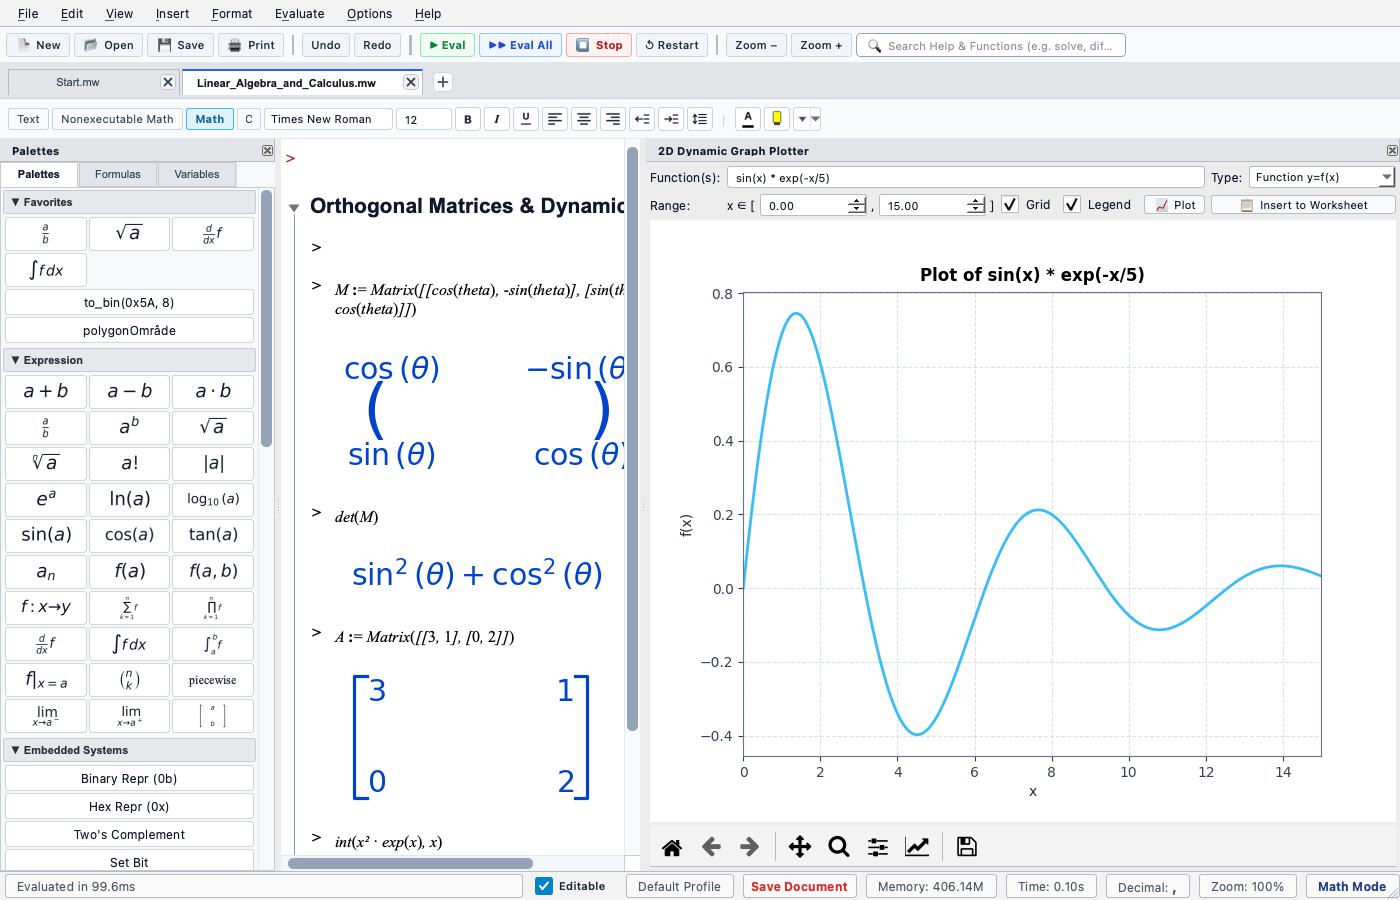
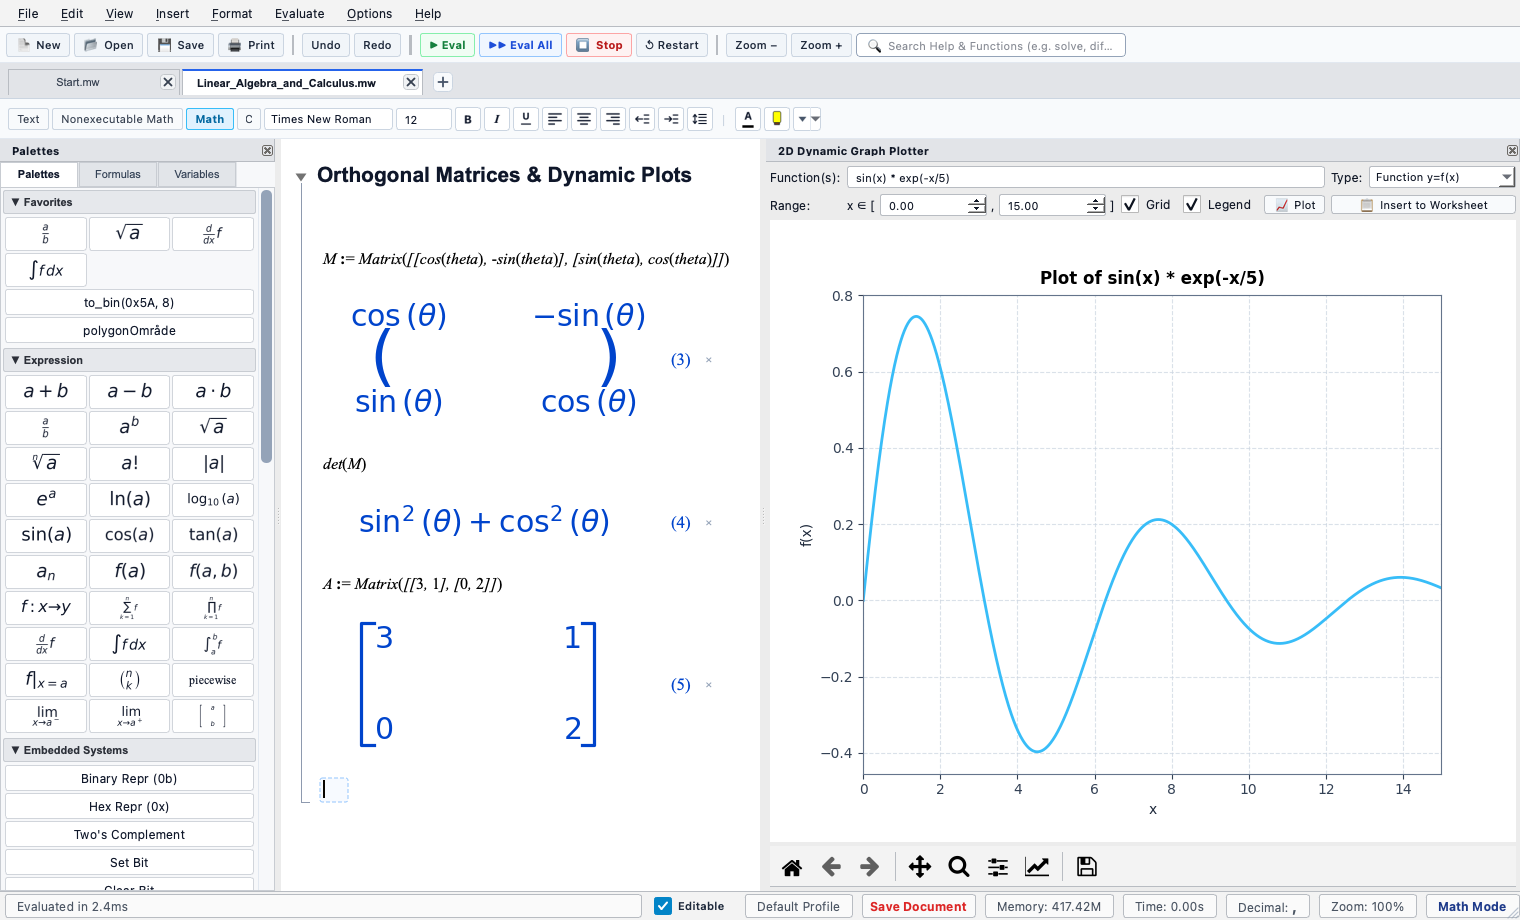
fix(ui): remove prompt and singular cell brackets, nest equations under subsections, and update showcase screenshots

diff --git a/web/js/worksheet.js b/web/js/worksheet.js
@@ -227,9 +227,9 @@ export class WorksheetView {
       const hasImages = cell.embeddedImages && Object.keys(cell.embeddedImages).length > 0;
       const isText = cell.mode === "text" || isTable || hasImages;
       cellDiv.innerHTML = `
-        <div class="cell-bracket-bar" style="${isText ? 'visibility:hidden;' : ''}"></div>
+        <div class="cell-bracket-bar" style="display:none;"></div>
         <div class="cell-input-row">
-          <span class="cell-prompt" style="${isText ? 'display:none;' : ''}">[&gt; </span>
+          <span class="cell-prompt" style="display:none;"></span>
           <div class="cell-input-edit mode-${cell.mode === '1d_math' ? '1d' : (isText ? 'text' : '2d')}"
                contenteditable="${this.isEditable}"
                spellcheck="false"></div>
@@ -402,7 +402,7 @@ export class WorksheetView {
       editEl.className = `cell-input-edit mode-${mode === '1d_math' ? '1d' : (isText ? 'text' : '2d')}`;
     }
     if (bracketBar) bracketBar.style.display = "none";
-    if (promptEl) promptEl.style.display = isText ? "none" : "";
+    if (promptEl) promptEl.style.display = "none";
 
     const outputContainer = cell.domElement?.querySelector(".cell-output-container");
     if (isText && outputContainer) {

diff --git a/web/css/worksheet.css b/web/css/worksheet.css
@@ -223,19 +223,9 @@ body.theme-dark .start-dev-btn:hover {
   min-height: 22px;
 }
 
+/* Cell Prompt `>` - Disabled: clean document presentation without command-line prompt */
 .cell-prompt {
-  font-family: "Times New Roman", Times, serif;
-  font-size: 14px;
-  font-style: italic;
-  font-weight: bold;
-  color: #cc0000;
-  user-select: none;
-  flex-shrink: 0;
-  line-height: 1.2;
-}
-
-body.theme-dark .cell-prompt {
-  color: #ef4444;
+  display: none !important;
 }
 
 .cell-input-edit {

diff --git a/web/css/desktop.css b/web/css/desktop.css
@@ -1094,10 +1094,10 @@ body.theme-dark .status-segment.mode-badge {
     box-shadow: none !important;
   }
   .cell-bracket-bar {
-    border-color: #cbd5e1 !important;
+    display: none !important;
   }
   .cell-prompt {
-    color: #7f1d1d !important;
+    display: none !important;
   }
   .cell-output-math {
     color: #0000aa !important;

diff --git a/scripts/generate_showcase_screenshots.py b/scripts/generate_showcase_screenshots.py
@@ -51,6 +51,11 @@ def generate_screenshot_1_light():
     win.tab_widget.setTabText(1, "Calculus_Worksheet.mw")
     win.setWindowTitle("Calculus_Worksheet.mw - [Server 3] - OpenMath")
 
+    while ws.cells:
+        c = ws.cells.pop(0)
+        ws.cells_layout.removeWidget(c)
+        c.deleteLater()
+
     ws.insert_section_cell("1. Advanced Symbolic Calculus & Analysis", level=0)
 
     c1 = ws.add_cell("f(x) := sin(x) * exp(-x/3)")
@@ -65,16 +70,18 @@ def generate_screenshot_1_light():
     c4 = ws.add_cell("solve(x^3 - 6*x^2 + 11*x - 6 = 0, x)")
     c4.execute()
 
+    if ws.cells:
+        ws.active_cell = ws.cells[0]
+
+    win.show()
+    app.processEvents()
+
     if hasattr(ws, 'scroll_area'):
         ws.scroll_area.verticalScrollBar().setValue(0)
         ws.scroll_area.horizontalScrollBar().setValue(0)
 
     app.processEvents()
     time.sleep(0.3)
-    app.processEvents()
-
-    win.show()
-    app.processEvents()
 
     out_path = os.path.join(OUT_DIR, "openmath_desktop_light.png")
     win.grab().save(out_path)
@@ -97,6 +104,11 @@ def generate_screenshot_2_dark():
     ws.set_worksheet_mode(True)
     win.tab_widget.setTabText(1, "Data_and_Constants.mw")
     win.setWindowTitle("Data_and_Constants.mw - [Server 3] - OpenMath")
+
+    while ws.cells:
+        c = ws.cells.pop(0)
+        ws.cells_layout.removeWidget(c)
+        c.deleteLater()
 
     ws.insert_section_cell("Physical Constants & Matrix Analysis", level=0)
 
@@ -141,16 +153,18 @@ def generate_screenshot_2_dark():
     c3 = ws.add_cell("M^2")
     c3.execute()
 
+    if ws.cells:
+        ws.active_cell = ws.cells[0]
+
+    win.show()
+    app.processEvents()
+
     if hasattr(ws, 'scroll_area'):
         ws.scroll_area.verticalScrollBar().setValue(0)
         ws.scroll_area.horizontalScrollBar().setValue(0)
 
     app.processEvents()
     time.sleep(0.3)
-    app.processEvents()
-
-    win.show()
-    app.processEvents()
 
     out_path = os.path.join(OUT_DIR, "openmath_dark_tables.png")
     win.grab().save(out_path)
@@ -174,8 +188,13 @@ def generate_screenshot_3_sections():
     win.tab_widget.setTabText(1, "Physics_Course_Notes.mw")
     win.setWindowTitle("Physics_Course_Notes.mw - [Server 3] - OpenMath")
 
+    while ws.cells:
+        c = ws.cells.pop(0)
+        ws.cells_layout.removeWidget(c)
+        c.deleteLater()
+
     ws.insert_section_cell("1. Classical Mechanics", level=0)
-    ws.insert_section_cell("1.1 Kinematics & Trajectory", level=1)
+    ws.insert_section_cell("1.1 Kinematics", level=1)
     c1 = ws.add_cell("x(t) := x_0 + v_0*t + (1/2)*a*t^2")
     c1.execute()
     c2 = ws.add_cell("v(t) := diff(x(t), t)")
@@ -184,13 +203,21 @@ def generate_screenshot_3_sections():
     ws.insert_section_cell("1.2 Conservation of Energy", level=1)
     c3 = ws.add_cell("E_k := (1/2) * m * v(t)^2")
     c3.execute()
-    c4 = ws.add_cell("E_p := m * g * y(t)")
-    c4.execute()
 
     ws.insert_section_cell("2. Electromagnetism & Waves", level=0)
     ws.insert_section_cell("2.1 Maxwell Equations", level=1)
-    c5 = ws.add_cell("c := 1 / sqrt(mu_0 * epsilon_0)")
+    c5 = ws.add_cell("c := 1 / sqrt(mu_0 * varepsilon_0)")
     c5.execute()
+
+    ws.ensure_cell_visible = lambda *a, **k: None
+
+    if ws.cells:
+        ws.active_cell = ws.cells[0]
+
+    win.show()
+    app.processEvents()
+    time.sleep(0.1)
+    app.processEvents()
 
     if hasattr(ws, 'scroll_area'):
         ws.scroll_area.verticalScrollBar().setValue(0)
@@ -198,10 +225,6 @@ def generate_screenshot_3_sections():
 
     app.processEvents()
     time.sleep(0.3)
-    app.processEvents()
-
-    win.show()
-    app.processEvents()
 
     out_path = os.path.join(OUT_DIR, "openmath_sections_tree.png")
     win.grab().save(out_path)
@@ -214,7 +237,7 @@ def generate_screenshot_4_calculus():
     app = setup_app(Theme.LIGHT)
     win = MainWindow()
     win.set_theme(Theme.LIGHT, save=False)
-    win.resize(1400, 900)
+    win.resize(1520, 920)
     win.palette_dock.setVisible(True)
     win.context_dock.setVisible(False)  # Closed context panel to give full room to calculations
     win.plot_dock.setVisible(True)
@@ -225,6 +248,11 @@ def generate_screenshot_4_calculus():
     ws.set_worksheet_mode(True)
     win.tab_widget.setTabText(1, "Linear_Algebra_and_Calculus.mw")
     win.setWindowTitle("Linear_Algebra_and_Calculus.mw - [Server 3] - OpenMath")
+
+    while ws.cells:
+        c = ws.cells.pop(0)
+        ws.cells_layout.removeWidget(c)
+        c.deleteLater()
 
     ws.insert_section_cell("Orthogonal Matrices & Dynamic Plots", level=0)
 
@@ -237,25 +265,28 @@ def generate_screenshot_4_calculus():
     c3 = ws.add_cell("A := Matrix([[3, 1], [0, 2]])")
     c3.execute()
 
-    c4 = ws.add_cell("int(x^2 * exp(x), x)")
-    c4.execute()
-
     # Draw plot in plot dock
     win.plot_panel.expr_input.setText("sin(x) * exp(-x/5)")
     win.plot_panel.spin_min.setValue(0.0)
     win.plot_panel.spin_max.setValue(15.0)
     win.plot_panel.plot_current_expression()
 
+    ws.ensure_cell_visible = lambda *a, **k: None
+
+    if ws.cells:
+        ws.active_cell = ws.cells[0]
+
+    win.show()
+    app.processEvents()
+    time.sleep(0.1)
+    app.processEvents()
+
     if hasattr(ws, 'scroll_area'):
         ws.scroll_area.verticalScrollBar().setValue(0)
         ws.scroll_area.horizontalScrollBar().setValue(0)
 
     app.processEvents()
-    time.sleep(0.4)
-    app.processEvents()
-
-    win.show()
-    app.processEvents()
+    time.sleep(0.3)
 
     out_path = os.path.join(OUT_DIR, "openmath_desktop_calculus.png")
     win.grab().save(out_path)

diff --git a/ui/worksheet_cell.py b/ui/worksheet_cell.py
@@ -11995,17 +11995,15 @@ class WorksheetCell(QFrame):
 
         self._error_box = None
 
-        # Input Row (Prompt '>' + Input Editor)
+        # Input Row (Input Editor without prompt)
         self.input_row = QWidget(self.content_container)
         input_row_layout = QHBoxLayout(self.input_row)
         input_row_layout.setContentsMargins(0, 0, 0, 0)
-        input_row_layout.setSpacing(4)
+        input_row_layout.setSpacing(0)
 
-        self.lbl_prompt = QLabel(">", self.input_row)
-        self.lbl_prompt.setFont(QFont("Consolas", 14, QFont.Weight.Bold))
-        self.lbl_prompt.setStyleSheet("color: #b22222; font-weight: bold;")
-        self.lbl_prompt.setFixedWidth(16)
-        self.lbl_prompt.setAlignment(Qt.AlignmentFlag.AlignTop | Qt.AlignmentFlag.AlignLeft)
+        self.lbl_prompt = QLabel("", self.input_row)
+        self.lbl_prompt.setFixedWidth(0)
+        self.lbl_prompt.setVisible(False)
         input_row_layout.addWidget(self.lbl_prompt)
 
         self.input_edit = CellInputEdit(self.input_row, parent_cell=self)
@@ -12562,44 +12560,12 @@ class WorksheetCell(QFrame):
         factor = getattr(self, 'zoom_factor', 1.0)
         display_sz = max(4, round(sz * factor))
 
-        has_img = hasattr(self, 'input_edit') and hasattr(self.input_edit, 'embedded_images') and bool(self.input_edit.embedded_images)
-        is_text_or_img = (mode == self.MODE_TEXT) or has_img
-        if is_text_or_img:
-            if hasattr(self, 'lbl_prompt'):
-                self.lbl_prompt.setVisible(False)
-            if hasattr(self, 'bracket_bar'):
-                self.bracket_bar.setVisible(False)
-        elif getattr(self, 'is_worksheet_mode', False) and not getattr(self, 'is_section_header', False):
-            if hasattr(self, 'lbl_prompt'):
-                self.lbl_prompt.setVisible(True)
-            if hasattr(self, 'bracket_bar'):
-                self.bracket_bar.setVisible(False)
-
-        if mode == self.MODE_2D_MATH:
-            prompt_font = QFont(fam, display_sz, QFont.Weight.Bold)
-            self.lbl_prompt.setFont(prompt_font)
-            self.lbl_prompt.setText(">")
-            self.lbl_prompt.setStyleSheet("color: #000000; font-weight: bold;")
-            self.lbl_prompt.setFixedWidth(max(14, self.lbl_prompt.fontMetrics().horizontalAdvance("> ") + 2))
-        elif mode == self.MODE_NONEXEC_MATH:
-            prompt_font = QFont(fam, display_sz)
-            self.lbl_prompt.setFont(prompt_font)
-            self.lbl_prompt.setText(" ")
-            self.lbl_prompt.setStyleSheet("color: #475569; font-weight: normal;")
-            self.lbl_prompt.setFixedWidth(max(14, self.lbl_prompt.fontMetrics().horizontalAdvance("> ") + 2))
-        elif mode == self.MODE_1D_MATH:
-            c_fam = "Courier New" if "Courier" in fam or "Consolas" in fam else fam
-            prompt_font = QFont(c_fam, display_sz, QFont.Weight.Bold)
-            self.lbl_prompt.setFont(prompt_font)
-            self.lbl_prompt.setText(">")
-            self.lbl_prompt.setStyleSheet("color: #b22222; font-weight: bold;")
-            self.lbl_prompt.setFixedWidth(max(14, self.lbl_prompt.fontMetrics().horizontalAdvance("> ") + 2))
-        else:  # Text mode
-            prompt_font = QFont(fam, display_sz)
-            self.lbl_prompt.setFont(prompt_font)
-            self.lbl_prompt.setText(" ")
-            self.lbl_prompt.setStyleSheet("color: #475569; font-weight: normal;")
-            self.lbl_prompt.setFixedWidth(max(14, self.lbl_prompt.fontMetrics().horizontalAdvance("> ") + 2))
+        if hasattr(self, 'lbl_prompt'):
+            self.lbl_prompt.setVisible(False)
+            self.lbl_prompt.setFixedWidth(0)
+            self.lbl_prompt.setText("")
+        if hasattr(self, 'bracket_bar'):
+            self.bracket_bar.setVisible(False)
 
     def _apply_mode_styling(self):
         """Apply font and prompt styling."""

diff --git a/ui/worksheet_view.py b/ui/worksheet_view.py
@@ -1308,14 +1308,8 @@ class WorksheetView(QWidget):
                     cell.section_level = 0
                     cell.is_inside_section = False
                 elif section_stack:
-                    while section_stack and section_stack[-1] > getattr(cell, 'section_level', 0):
-                        section_stack.pop()
-                    if section_stack:
-                        cell.section_level = section_stack[-1]
-                        cell.is_inside_section = True
-                    else:
-                        cell.section_level = 0
-                        cell.is_inside_section = False
+                    cell.section_level = section_stack[-1]
+                    cell.is_inside_section = True
                 else:
                     cell.section_level = 0
                     cell.is_inside_section = False
